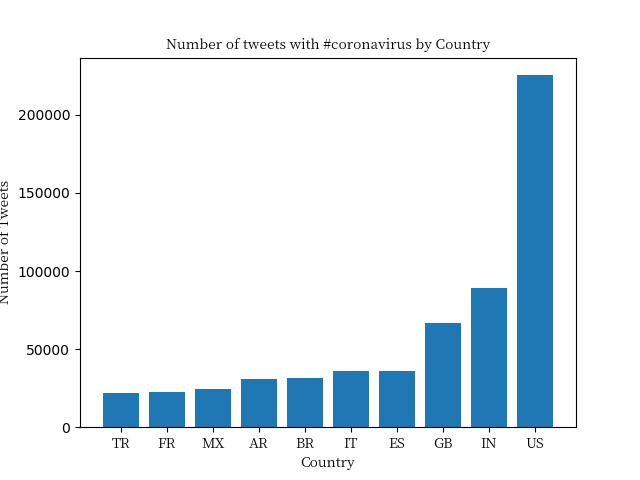
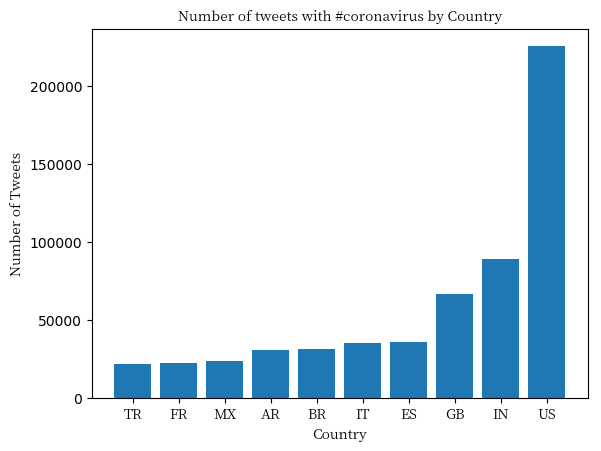
changed graph padding

Changed region(s): [[0.0, 0.031, 0.9584, 0.9933], [0.9584, 0.0621, 0.9884, 0.0931]]

diff --git a/src/visualize.py b/src/visualize.py
@@ -54,4 +54,4 @@ if args.key != "#coronavirus":
     lang = "Korean"
 plt.title("Number of tweets with " + args.key + " by " + xLabel, fontproperties=fp) 
 plt.xticks(x_arr, [k for k, v in top_10_items], fontproperties=fp)
-plt.savefig("./graphs/" + args.input_path + args.key + ".png")
+plt.savefig("./graphs/" + args.input_path + args.key + ".png", bbox_inches="tight")
